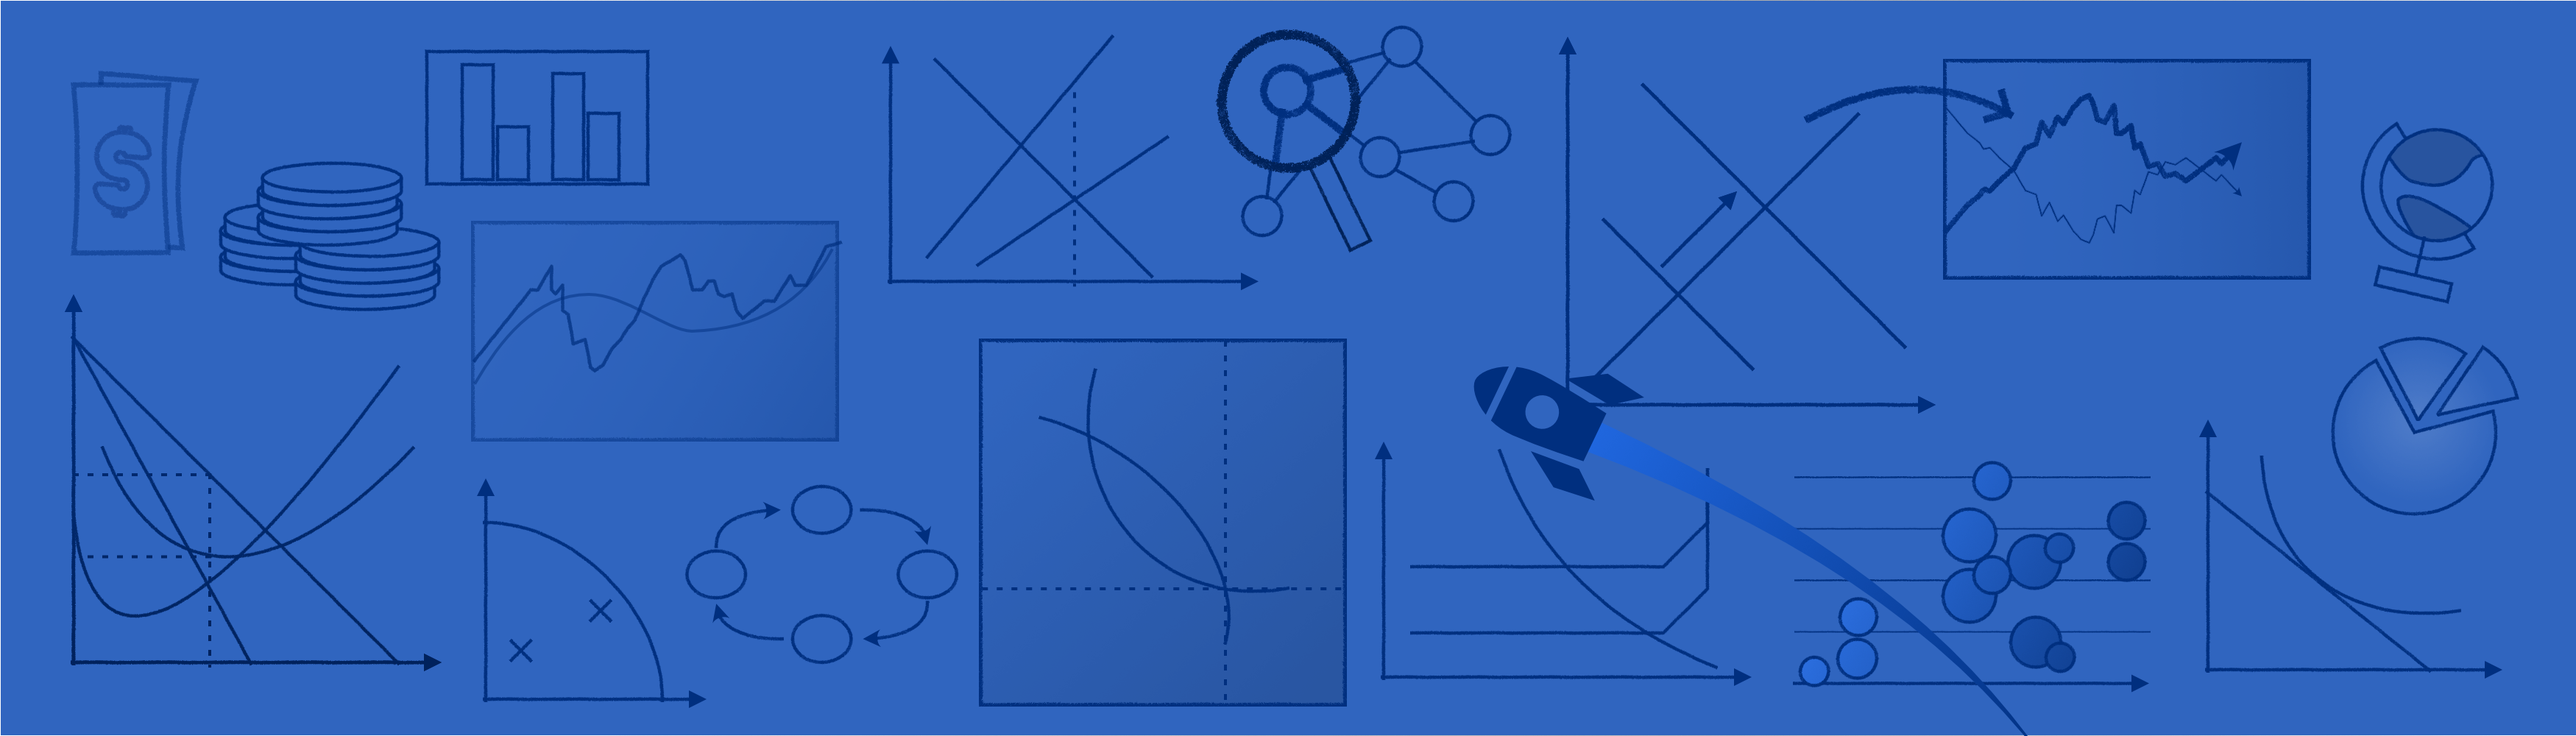
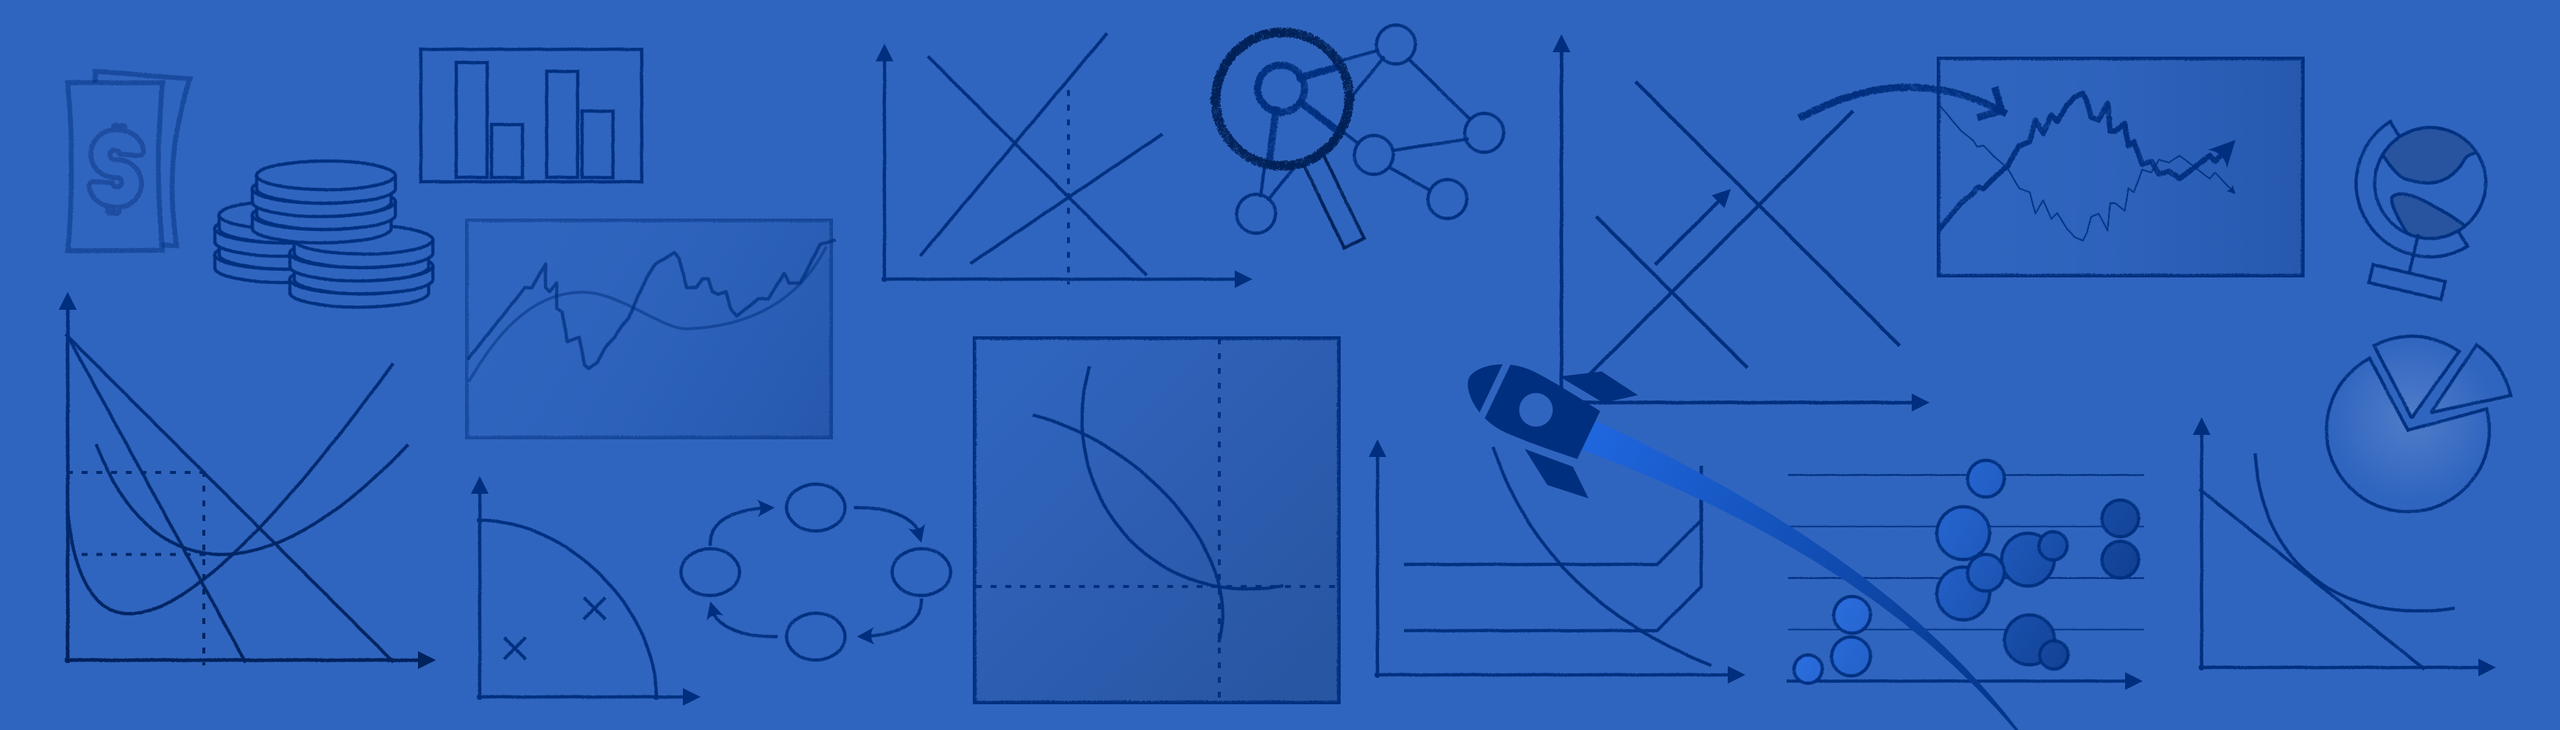
fix: animation background lines

diff --git a/app/components/AnimatedBackground.tsx b/app/components/AnimatedBackground.tsx
@@ -3,17 +3,17 @@ import React from "react";
 
 export default function AnimatedBackground() {
   return (
-    <section className="relative w-full h-[600px] overflow-hidden">
-      <div className="absolute top-0 left-0 w-full h-full z-0 scrolling-bg" />
+    <div className="absolute inset-0 z-0 overflow-hidden">
+      <div className="absolute top-0 left-0 w-full h-full scrolling-bg" />
       <style jsx>{`
         .scrolling-bg {
-          background-image: url("/animation.png"); 
-          background-repeat: repeat-x; 
-          background-size: auto 100%; 
-          width: 200%;  
+          background-image: url("/animation.png");
+          background-repeat: repeat-x;
+          background-size: auto 100%;
+          width: 200%;
           height: 100%;
           animation: scroll-bg 80s linear infinite;
-          animation-timing-function: linear; 
+          animation-timing-function: linear;
         }
 
         @keyframes scroll-bg {
@@ -25,6 +25,6 @@ export default function AnimatedBackground() {
           }
         }
       `}</style>
-    </section>
+    </div>
   );
 }
